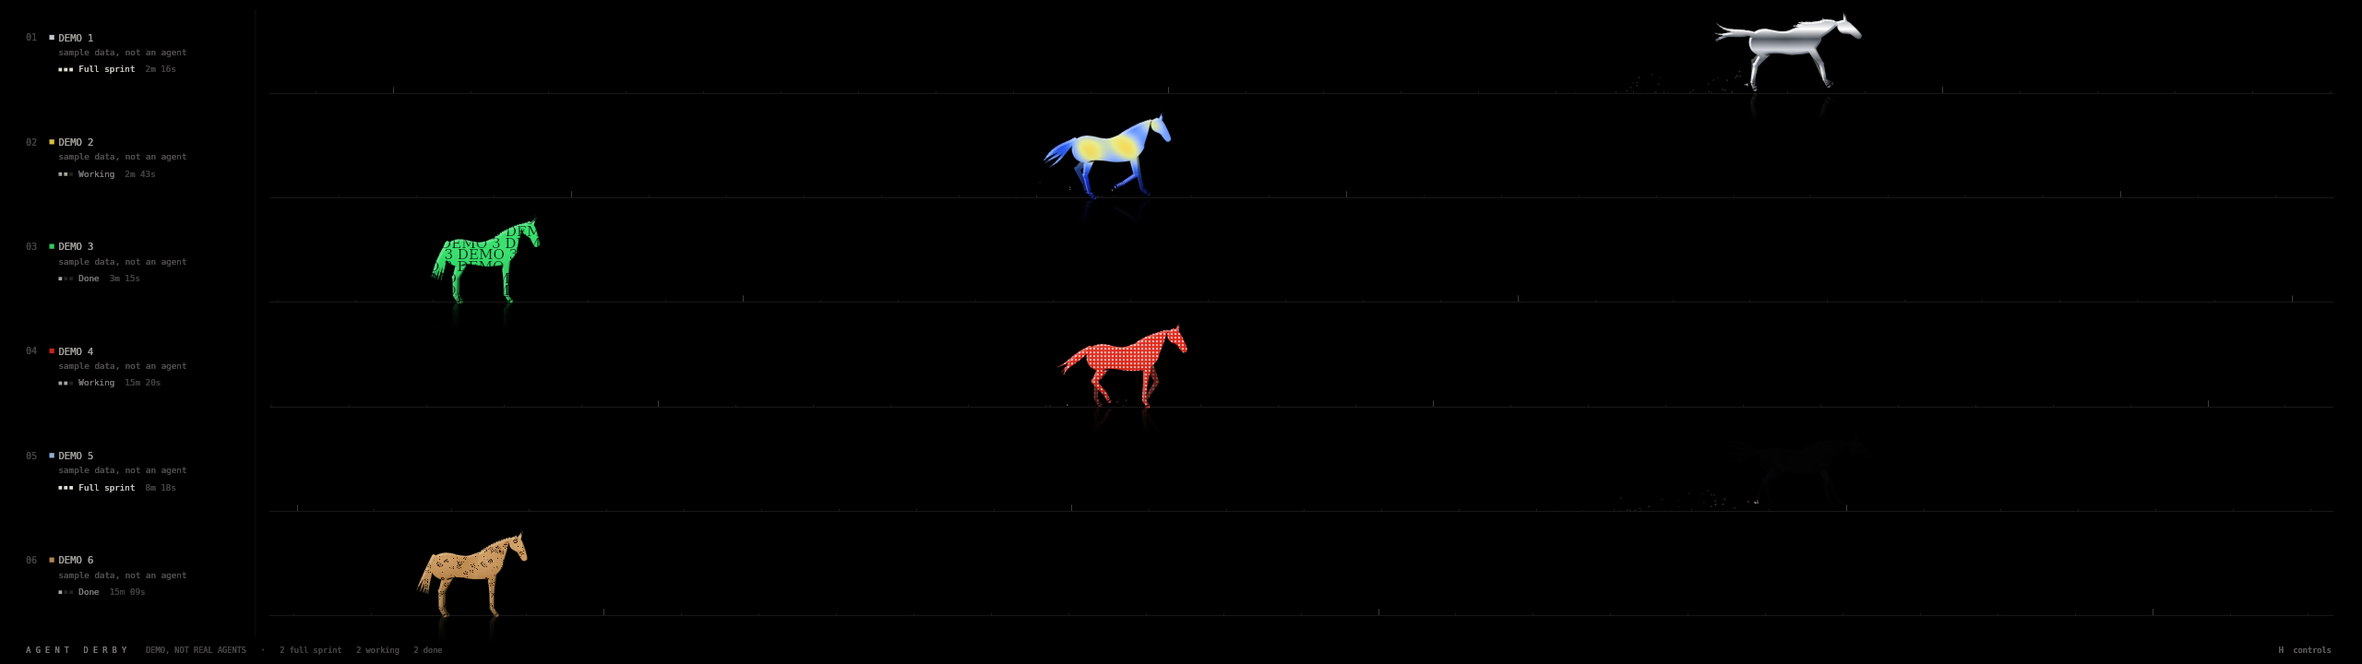
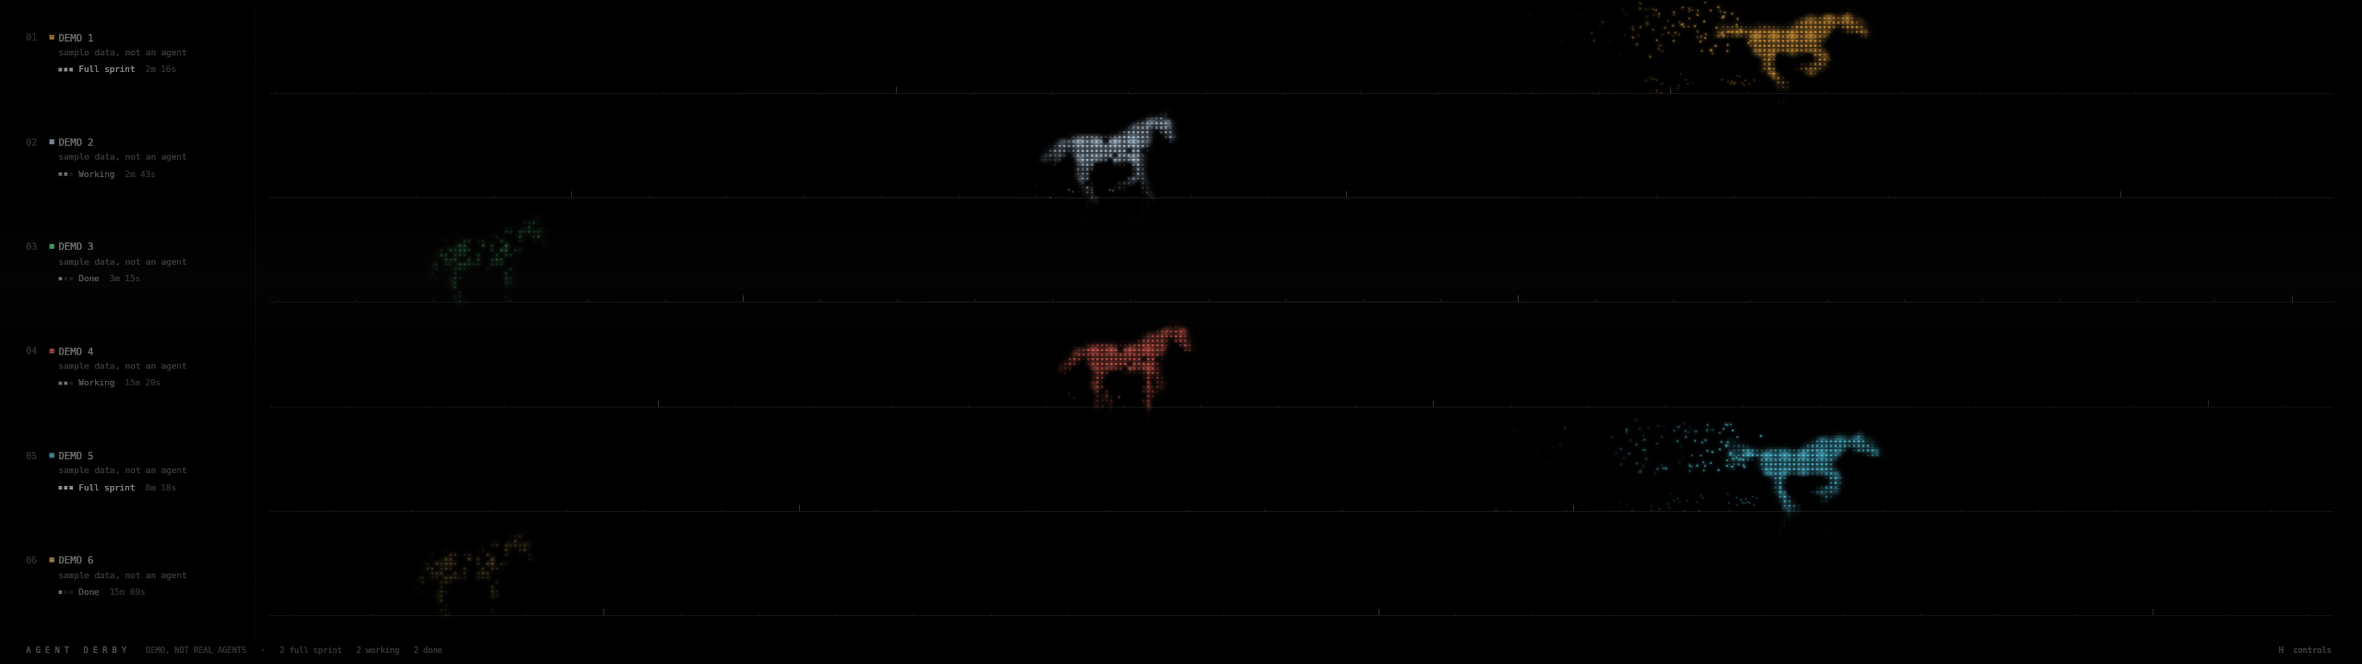
Add glowing dots, dither, ASCII and pixel looks with a CRT layer
Horses can now be drawn as LED dots (default), 1-bit dither, ASCII or
chunky pixels, chosen with page.horseStyle, ?style= or the V key. State
shows in the light: done horses thin out, working fill in, sprinting
glow and trail. A configurable CRT layer (page.crtOverlay) adds
scanlines, a vignette and a faint flicker. Gallop timing follows
Muybridge's 1878 footfall order. Slow devices drop bloom first.

diff --git a/index.html b/index.html
@@ -50,6 +50,7 @@ body.idle, body.idle canvas { cursor: none; }
     <dt>R · W · S</dt><dd>Set it to done, working or full sprint</dd>
     <dt>Shift + R · W · S</dt><dd>Set every horse</dd>
     <dt>D</dt><dd>Pause or resume the test simulation</dd>
+    <dt>V</dt><dd>Next look: dots, dither, ASCII, pixels, classic</dd>
     <dt>F</dt><dd>Fullscreen</dd>
     <dt>C</dt><dd>Show your Claude Code sessions (on claude.ai)</dd>
     <dt>H</dt><dd>Hide this panel</dd>
@@ -87,14 +88,21 @@ const isTV = () => LAYOUT === '4x3' || LAYOUT === 'tv' || (LAYOUT === 'auto' && 
 /* ---------- settings ----------
    The bridge serves the "page" section of derby.config.json at /config. Every key is optional;
    README.md lists them all. A saved copy of the page with no bridge uses these defaults. */
-const CFG = { title: 'AGENT DERBY', background: '#000000', ink: '#ECE9E2', horses: null,
+const STYLES = ['dots', 'dither', 'ascii', 'pixels', 'classic'];
+const CFG = { style: 'dots', palette: 'lanes', crt: null, title: 'AGENT DERBY', background: '#000000', ink: '#ECE9E2', horses: null,
   track: { lines: true, reflections: true, dust: true }, labels: { showTask: true, showTimer: true, rename: {} } };
 let INK = '236,233,226';
 const ink = a => `rgba(${INK},${a})`;
 const hexRGB = h => { const m = /^#?([0-9a-f]{6})$/i.exec(String(h || '')); if (!m) return null; const n = parseInt(m[1], 16); return `${n >> 16},${n >> 8 & 255},${n & 255}`; };
+if (STYLES.includes((params.get('style') || '').toLowerCase())) CFG.style = params.get('style').toLowerCase();
+if (params.get('palette')) CFG.palette = params.get('palette');
+if (params.get('crt') !== null && !isNaN(parseFloat(params.get('crt')))) CFG.crt = clamp(parseFloat(params.get('crt')), 0, 1);
 function applyConfig(c) {
   if (!c || typeof c !== 'object') return;
   if (typeof c.title === 'string') CFG.title = c.title.slice(0, 40);
+  if (!params.get('style') && STYLES.includes(c.horseStyle)) CFG.style = c.horseStyle;
+  if (!params.get('palette') && typeof c.palette === 'string') CFG.palette = c.palette;
+  if (!params.get('crt') && typeof c.crtOverlay === 'number') CFG.crt = clamp(c.crtOverlay, 0, 1);
   const th = c.theme || {};
   if (hexRGB(th.background)) CFG.background = '#' + String(th.background).replace('#', '');
   if (hexRGB(th.ink)) { CFG.ink = th.ink; INK = hexRGB(th.ink); }
@@ -165,7 +173,9 @@ addEventListener('hashchange', applyHash);
 /* ---------- gaits ---------- */
 const GAIT = {
   trot:   { f: 1.55, s: 0.42, Af: 0.32, Ab: 0.28, F: 1.25, lift: 0.36, sag: 0.06, Bf: 0.30, Bb: 0.34, H: 1.05, off: [0, 0.5, 0.5, 0] },
-  gallop: { f: 2.10, s: 0.30, Af: 0.50, Ab: 0.46, F: 1.75, lift: 0.50, sag: 0.16, Bf: 0.46, Bb: 0.50, H: 1.45, off: [0.42, 0.30, 0.10, 0] },
+  // footfall order and timing after Muybridge's 1878 gallop photographs: trailing hind, leading hind,
+  // trailing fore, leading fore, then all four off the ground with the legs gathered under the body
+  gallop: { f: 2.25, s: 0.26, Af: 0.50, Ab: 0.46, F: 1.80, lift: 0.52, sag: 0.16, Bf: 0.48, Bb: 0.50, H: 1.50, off: [0.40, 0.29, 0.09, 0] },
 };
 for (const g of Object.values(GAIT)) g.v = 1.02 * (g.Af + g.Ab) * g.f / g.s; // ground speed that keeps hooves planted
 
@@ -284,8 +294,9 @@ function geometry(h, pose, dt) {
 /* ---------- layout & shared canvases ---------- */
 let W = 0, H = 0, dpr = 1, S = 50, LW = 10, LH = 10, OX = 0, OY = 0;
 let L = {};
-const mk = () => { const c = document.createElement('canvas'); return [c, c.getContext('2d')]; };
-const [MASK, mctx] = mk(), [LAYER, lctx] = mk(), [COMP, cctx] = mk(), [REF, rctx] = mk(), [RIM, rimctx] = mk();
+const mk = (cpu) => { const c = document.createElement('canvas'); return [c, c.getContext('2d', cpu ? { willReadFrequently: true } : undefined)]; };
+const [MASK, mctx] = mk(true), [LAYER, lctx] = mk(true), [COMP, cctx] = mk(true), [REF, rctx] = mk(), [RIM, rimctx] = mk(true);
+const [SIL, silctx] = mk(true), [GRID, gctx] = mk(true), [SOUT, sctx] = mk(), [BLOOM, bctx] = mk(), [VIG, vctx] = mk(), [SCAN, scanctx] = mk();
 const [NOISE, nctx] = mk(); NOISE.width = 84; NOISE.height = 60;
 const noiseImg = nctx.createImageData(NOISE.width, NOISE.height);
 
@@ -308,10 +319,13 @@ function resize() {
   S = Math.max(8, Math.min(scaleByH, scaleByW));
   LW = Math.ceil(4.1 * S) + 8; LH = Math.ceil(3.5 * S) + 8;
   OX = 2.0 * S + 4; OY = 2.72 * S + 4;
-  for (const c of [MASK, LAYER, COMP, REF, RIM]) { c.width = LW; c.height = LH; }
+  for (const c of [MASK, LAYER, COMP, REF, RIM, SOUT, SIL]) { c.width = LW; c.height = LH; }
+  BLOOM.width = Math.ceil(LW / 4); BLOOM.height = Math.ceil(LH / 4);
   const fs = tv ? clamp(Math.min(lh * 0.15, W * 0.026), 12, 30) : clamp(lh * 0.068, 10.5 * d, 21 * d);
   L = { wide, tv, gut, footH, top, lh, labelW, fs, trackX0: gut + labelW + (wide ? gut : tv ? gut * 0.5 : 0), trackX1: W - gut };
   buildTiles();
+  buildCRT();
+  SPRITES.clear();
 }
 
 /* ---------- surface tiles ---------- */
@@ -626,21 +640,145 @@ function paintLayer(h, t, pose, far) {
 }
 function renderHorse(h, g, pose, t) {
   cctx.globalCompositeOperation = 'source-over'; cctx.clearRect(0, 0, LW, LH);
+  const sil = CFG.style !== 'classic';
   mctx.clearRect(0, 0, LW, LH); drawFar(mctx, g);
+  if (sil) { silctx.clearRect(0, 0, LW, LH); silctx.drawImage(MASK, 0, 0); }
   paintLayer(h, t, pose, true); cctx.drawImage(LAYER, 0, 0);
   mctx.clearRect(0, 0, LW, LH); drawNear(mctx, g, pose, h, t);
+  if (sil) silctx.drawImage(MASK, 0, 0);
   paintLayer(h, t, pose, false); cctx.drawImage(LAYER, 0, 0);
 }
-function drawReflection(x, y) {
+function drawReflection(x, y, src = COMP) {
   const r = rctx, depth = 0.75 * S;
   r.globalCompositeOperation = 'source-over'; r.clearRect(0, 0, LW, LH);
-  r.save(); r.translate(0, 2 * OY); r.scale(1, -1); r.drawImage(COMP, 0, 0); r.restore();
+  r.save(); r.translate(0, 2 * OY); r.scale(1, -1); r.drawImage(src, 0, 0); r.restore();
   r.globalCompositeOperation = 'destination-in';
   const g = r.createLinearGradient(0, OY, 0, OY + depth);
   g.addColorStop(0, 'rgba(0,0,0,0.26)'); g.addColorStop(0.45, 'rgba(0,0,0,0.07)'); g.addColorStop(1, 'rgba(0,0,0,0)');
   r.fillStyle = g; r.fillRect(0, OY, LW, LH - OY);
   r.fillStyle = 'rgba(0,0,0,0)';
   ctx.drawImage(REF, 0, OY, LW, LH - OY, x, y + OY, LW, LH - OY);
+}
+
+/* ---------- render styles: the horse built from light (see docs/STYLE.md) ---------- */
+const LED = ['#FFB547', '#CFE8FF', '#6BFF8E', '#FF6B5A', '#5FE3FF', '#FFD36B', '#B48CFF', '#FF8FD0'];
+const PHOSPHOR = { amber: '#FFB547', green: '#7CFF9B', white: '#EAF2FF', ice: '#BFE3FF' };
+function laneColor(h) {
+  const p = String(CFG.palette || 'lanes').toLowerCase();
+  if (PHOSPHOR[p]) return PHOSPHOR[p];
+  if (hexRGB(p)) return '#' + p.replace('#', '');
+  return LED[h.i % LED.length];
+}
+const RAMP = ' .:-=+*#%@';
+const BAYER = [0, 8, 2, 10, 12, 4, 14, 6, 3, 11, 1, 9, 15, 7, 13, 5].map(v => (v + 0.5) / 16);
+const SPRITES = new Map();
+const mix = (hex, k) => { const [r, g, b] = hexRGB(hex).split(',').map(Number); const m = v => Math.round(Math.min(255, v * k)); return `rgb(${m(r)},${m(g)},${m(b)})`; };
+function sprite(key, make) { let c = SPRITES.get(key); if (!c) { c = make(); SPRITES.set(key, c); } return c; }
+function dotSprite(col, cell) {
+  return sprite('d' + col + cell, () => {
+    const n = Math.max(4, Math.ceil(cell * 2)), [c, x] = mk(); c.width = c.height = n;
+    const r = n / 2, rgb = hexRGB(col), g = x.createRadialGradient(r, r, 0, r, r, r);
+    // a hard LED core with a soft halo, and dark gaps between neighbours
+    g.addColorStop(0, 'rgba(255,255,255,0.95)'); g.addColorStop(0.10, `rgba(${rgb},1)`);
+    g.addColorStop(0.24, `rgba(${rgb},1)`); g.addColorStop(0.30, `rgba(${rgb},0.30)`);
+    g.addColorStop(0.55, `rgba(${rgb},0.07)`); g.addColorStop(1, `rgba(${rgb},0)`);
+    x.fillStyle = g; x.fillRect(0, 0, n, n); return c;
+  });
+}
+function glyphAtlas(col, cell) {
+  return sprite('a' + col + cell, () => {
+    const [c, x] = mk(); c.width = cell * RAMP.length; c.height = cell;
+    x.font = `700 ${Math.round(cell * 1.12)}px ${MONO}`; x.textAlign = 'center'; x.textBaseline = 'middle'; x.fillStyle = col;
+    for (let i = 1; i < RAMP.length; i++) x.fillText(RAMP[i], i * cell + cell / 2, cell * 0.54);
+    return c;
+  });
+}
+let QUALITY = 0; // 0 full, 1 no bloom or reflections, 2 also coarser cells (set by the frame-time watchdog)
+function cellSize(style) {
+  const k = { dots: 8.5, dither: 15, ascii: 9.5, pixels: 7.5 }[style];
+  const min = ({ dots: 3, dither: 2, ascii: 7, pixels: 4 })[style] * (L.tv ? 1.25 : 1);
+  return Math.max(Math.round(min), Math.round(S / k * (QUALITY > 1 ? 1.5 : 1)));
+}
+function stylize(h, now) {
+  const style = CFG.style, c = cellSize(style), cols = Math.ceil(LW / c), rows = Math.ceil(LH / c);
+  if (GRID.width !== cols || GRID.height !== rows) { GRID.width = cols; GRID.height = rows; }
+  gctx.clearRect(0, 0, cols, rows); gctx.imageSmoothingEnabled = true; gctx.imageSmoothingQuality = 'medium';
+  // shape comes from the silhouette, brightness from the skin, so see-through skins still read as a full horse
+  gctx.drawImage(SIL, 0, 0, cols, rows);
+  const m = gctx.getImageData(0, 0, cols, rows).data;
+  gctx.clearRect(0, 0, cols, rows); gctx.drawImage(COMP, 0, 0, cols, rows);
+  const d = gctx.getImageData(0, 0, cols, rows).data;
+  const w = h.w, sum = w.rest + w.work + w.sprint || 1;
+  const energy = (0.34 * w.rest + 0.74 * w.work + 1.0 * w.sprint) / sum;
+  const density = (0.46 * w.rest + 0.94 * w.work + 1.0 * w.sprint) / sum;
+  const col = laneColor(h), x = sctx;
+  x.globalCompositeOperation = 'source-over'; x.globalAlpha = 1; x.clearRect(0, 0, LW, LH);
+  if (style === 'dots') x.globalCompositeOperation = 'lighter';
+  const dot = style === 'dots' ? dotSprite(col, c) : null, atlas = style === 'ascii' ? glyphAtlas(col, c) : null;
+  const shades = style === 'pixels' ? [0.34, 0.55, 0.78, 1.0].map(k => mix(col, k)) : null;
+  if (style === 'dither') x.fillStyle = col;
+  const gap = c >= 4 ? 1 : 0, ds = dot ? dot.width : 0;
+  for (let y = 0; y < rows; y++) for (let xx = 0; xx < cols; xx++) {
+    const o = (y * cols + xx) * 4, a = m[o + 3] / 255;
+    if (a < (style === 'ascii' ? 0.07 : 0.12)) continue;
+    const lum = d[o + 3] > 6 ? (0.30 * d[o] + 0.55 * d[o + 1] + 0.15 * d[o + 2]) / 255 : 0.6;
+    let v = Math.min(1, a * (0.42 + 0.58 * Math.sqrt(lum)));
+    const hsh = ((xx * 73856093) ^ (y * 19349663)) >>> 0, rr = (hsh % 1009) / 1009;
+    if (rr > density) continue;                      // done horses thin out to a sparse field
+    if (w.rest / sum > 0.5) v *= 0.82 + 0.18 * Math.sin(now * 1.7 + rr * 40); // and twinkle a little
+    const e = v * energy, px = xx * c, py = y * c;
+    if (style === 'dots') {
+      const k = 0.72 + 0.28 * v;
+      x.globalAlpha = Math.min(1, e * 1.25);
+      const sz = ds * k; x.drawImage(dot, px + c / 2 - sz / 2, py + c / 2 - sz / 2, sz, sz);
+    } else if (style === 'dither') {
+      if (e > BAYER[(y & 3) * 4 + (xx & 3)]) x.fillRect(px, py, c - gap, c - gap);
+    } else if (style === 'ascii') {
+      const gi = Math.min(RAMP.length - 1, Math.max(1, Math.round((0.15 + 0.85 * v * v) * Math.sqrt(energy) * (RAMP.length - 1))));
+      if (gi > 0) { x.globalAlpha = 0.55 + 0.45 * v; x.drawImage(atlas, gi * c, 0, c, c, px, py, c, c); }
+    } else {
+      x.fillStyle = shades[Math.min(3, Math.floor(e * 4))]; x.fillRect(px, py, c, c);
+    }
+  }
+  x.globalAlpha = 1; x.globalCompositeOperation = 'source-over';
+  return { energy, col, cell: c };
+}
+function drawStyled(h, dx, dy, info, base) {
+  if (QUALITY < 1) {
+    bctx.globalCompositeOperation = 'source-over'; bctx.clearRect(0, 0, BLOOM.width, BLOOM.height);
+    bctx.imageSmoothingEnabled = true; bctx.drawImage(SOUT, 0, 0, BLOOM.width, BLOOM.height);
+    ctx.globalCompositeOperation = 'lighter';
+    ctx.globalAlpha = base * (CFG.style === 'dots' ? 0.42 + 0.5 * info.energy : 0.22 + 0.25 * info.energy);
+    ctx.drawImage(BLOOM, dx - LW * 0.03, dy - LH * 0.03, LW * 1.06, LH * 1.06);
+    ctx.globalCompositeOperation = 'source-over';
+  }
+  ctx.globalAlpha = base; ctx.drawImage(SOUT, dx, dy);
+}
+
+/* ---------- retro CRT layer over everything ---------- */
+function buildCRT() {
+  const pitch = Math.max(2, Math.round((L.tv ? Math.max(2, H / 256) : 3 * dpr)));
+  SCAN.width = 1; SCAN.height = pitch;
+  scanctx.clearRect(0, 0, 1, pitch); scanctx.fillStyle = '#000'; scanctx.fillRect(0, 0, 1, Math.max(1, Math.round(pitch * 0.45)));
+  VIG.width = 320; VIG.height = Math.max(90, Math.round(320 * H / W));
+  const g = vctx.createRadialGradient(160, VIG.height / 2, Math.min(160, VIG.height / 2) * 0.55, 160, VIG.height / 2, Math.hypot(160, VIG.height / 2));
+  g.addColorStop(0, 'rgba(0,0,0,0)'); g.addColorStop(1, 'rgba(0,0,0,1)');
+  vctx.clearRect(0, 0, VIG.width, VIG.height); vctx.fillStyle = g; vctx.fillRect(0, 0, VIG.width, VIG.height);
+}
+function drawCRT(now) {
+  const k = CFG.crt == null ? (L.tv ? 0.25 : 0.15) : CFG.crt;
+  if (k <= 0) return;
+  ctx.save(); ctx.setTransform(1, 0, 0, 1, 0, 0); ctx.globalCompositeOperation = 'source-over';
+  ctx.globalAlpha = Math.min(1, k * 1.4); ctx.fillStyle = ctx.createPattern(SCAN, 'repeat'); ctx.fillRect(0, 0, W, H);
+  ctx.globalAlpha = Math.min(1, k * 2.2); ctx.drawImage(VIG, 0, 0, W, H);
+  // a soft band that rolls down the screen, and a faint flicker
+  const bandH = H * 0.22, by = ((now * 0.06) % 1.3 - 0.15) * H;
+  const bg = ctx.createLinearGradient(0, by, 0, by + bandH);
+  bg.addColorStop(0, 'rgba(255,255,255,0)'); bg.addColorStop(0.5, `rgba(${INK},${0.10 * k})`); bg.addColorStop(1, 'rgba(255,255,255,0)');
+  ctx.globalAlpha = 1; ctx.globalCompositeOperation = 'lighter'; ctx.fillStyle = bg; ctx.fillRect(0, by, W, bandH);
+  ctx.globalCompositeOperation = 'source-over';
+  if (!reduced) { ctx.globalAlpha = k * 0.10 * (0.5 + 0.5 * Math.sin(now * 37) * Math.sin(now * 13.1)); ctx.fillStyle = '#000'; ctx.fillRect(0, 0, W, H); }
+  ctx.restore();
 }
 
 /* ---------- labels ---------- */
@@ -668,7 +806,7 @@ function drawLabel(h, laneTop, groundY, now, drift) {
   ctx.fillStyle = hl ? ink(0.9) : ink(0.30);
   ctx.fillText(String(h.i + 1).padStart(2, '0'), x0, y);
   const nx = x0 + fs * 2.4;
-  ctx.fillStyle = SKINS[h.skin].swatch; ctx.globalAlpha = 0.9;
+  ctx.fillStyle = CFG.style === 'classic' ? SKINS[h.skin].swatch : laneColor(h); ctx.globalAlpha = 0.9;
   ctx.fillRect(nx, y - fs * 0.62, fs * 0.5, fs * 0.5); ctx.globalAlpha = 1;
   ctx.font = `500 ${fs}px ${MONO}`;
   ctx.fillStyle = hl ? ink(1) : ink(0.72);
@@ -768,10 +906,24 @@ function frame() {
     renderHorse(h, g, pose, now);
     const dx = Math.round(originX - OX), dy = Math.round(groundY - OY);
     // an open lane keeps only a faint ghost, so it never reads as a real agent
-    if (h.open) ctx.globalAlpha = 0.12;
-    if (CFG.track.reflections) drawReflection(dx, dy);
-    ctx.drawImage(COMP, dx, dy);
+    const base = h.open ? 0.12 : 1;
+    let info = null;
+    if (CFG.style !== 'classic') {
+      info = stylize(h, now);
+      ctx.globalAlpha = base;
+      if (CFG.track.reflections && QUALITY < 1) drawReflection(dx, dy, SOUT);
+      drawStyled(h, dx, dy, info, base);
+    } else {
+      ctx.globalAlpha = base;
+      if (CFG.track.reflections) drawReflection(dx, dy);
+      ctx.drawImage(COMP, dx, dy);
+    }
     ctx.globalAlpha = 1;
+    // at full sprint, styled horses shed a trail of points behind them
+    if (info && !reduced && !h.open && CFG.track.dust && h.w.sprint > 0.4 && rnd() < h.w.sprint * 0.9) {
+      for (let q = 0; q < 2; q++) h.dust.push({ trail: 1, x: originX - (0.9 + rnd() * 1.1) * S, y: groundY - (1.0 + rnd() * 1.3) * S,
+        vx: -pose.speed * S * (0.25 + rnd() * 0.45), vy: (rnd() - 0.5) * 0.3 * S, life: 0.5 + rnd() * 0.7, age: 0 });
+    }
 
     // dust from hooves leaving the ground at speed
     if (!reduced) {
@@ -787,9 +939,19 @@ function frame() {
       for (let q = h.dust.length - 1; q >= 0; q--) {
         const p = h.dust[q]; p.age += dt;
         if (p.age > p.life) { h.dust.splice(q, 1); continue; }
-        p.vy += 6 * S * dt; p.x += p.vx * dt; p.y = Math.min(groundY, p.y + p.vy * dt);
-        ctx.fillStyle = `rgba(214,206,192,${0.45 * (1 - p.age / p.life)})`;
-        const s = 1.4 * dpr; ctx.fillRect(p.x, p.y - s, s, s);
+        if (!p.trail) p.vy += 6 * S * dt; p.x += p.vx * dt; p.y = Math.min(groundY, p.y + p.vy * dt);
+        const fade = 1 - p.age / p.life;
+        if (info) {
+          const sz = info.cell * (p.trail ? 0.9 : 0.6);
+          ctx.globalAlpha = (p.trail ? 0.75 : 0.5) * fade;
+          if (CFG.style === 'dots') { const sp = dotSprite(info.col, info.cell); ctx.globalCompositeOperation = 'lighter'; ctx.drawImage(sp, p.x - sz, p.y - sz, sz * 2, sz * 2); ctx.globalCompositeOperation = 'source-over'; }
+          else if (CFG.style === 'ascii') { const at = glyphAtlas(info.col, info.cell), gi = 1 + ((p.x * 7 + p.y * 3) | 0) % 3; ctx.drawImage(at, gi * info.cell, 0, info.cell, info.cell, Math.round(p.x / info.cell) * info.cell, Math.round(p.y / info.cell) * info.cell, info.cell, info.cell); }
+          else { ctx.fillStyle = info.col; ctx.fillRect(Math.round(p.x / info.cell) * info.cell, Math.round(p.y / info.cell) * info.cell, sz, sz); }
+          ctx.globalAlpha = 1;
+        } else {
+          ctx.fillStyle = `rgba(214,206,192,${0.45 * fade})`;
+          const s = 1.4 * dpr; ctx.fillRect(p.x, p.y - s, s, s);
+        }
       }
     }
     drawLabel(h, laneTop, groundY, now, drift);
@@ -814,8 +976,18 @@ function frame() {
   ctx.textAlign = 'right'; ctx.fillStyle = ink(0.45);
   ctx.fillText(now < hintUntil ? 'H  controls' : time, W - L.gut + drift[0], fy);
   ctx.textAlign = 'left';
+  drawCRT(now);
+  watchFrame(now);
 
   requestAnimationFrame(frame);
+}
+// If frames run slow (a Raspberry Pi, a huge screen), drop the bloom and reflections, then use coarser cells.
+let slowFor = 0, fastFor = 0, lastT = 0;
+function watchFrame(now) {
+  const ft = lastT ? now - lastT : 0.016; lastT = now;
+  if (ft > 0.026) { slowFor += ft; fastFor = 0; } else { fastFor += ft; slowFor = Math.max(0, slowFor - ft * 0.5); }
+  if (slowFor > 2 && QUALITY < 2) { QUALITY++; slowFor = 0; }
+  if (fastFor > 30 && QUALITY > 0) { QUALITY--; fastFor = 0; }
 }
 
 /* ---------- input ---------- */
@@ -842,6 +1014,7 @@ addEventListener('keydown', e => {
   }
   if (k === 'd') { demo = !demo; if (demo) horses.forEach(h => { h.hold = 0; }); return; }
   if (k === 'f') { toggleFull(); return; }
+  if (k === 'v') { CFG.style = STYLES[(STYLES.indexOf(CFG.style) + 1) % STYLES.length]; return; }
   if (k === 'c') { cloudAsk(); return; }
   if (k === 'h' || k === '?') { helpEl.hidden = !helpEl.hidden; return; }
   if (k === 'escape') helpEl.hidden = true;

diff --git a/README.md b/README.md
@@ -100,10 +100,13 @@ Everything lives in `derby.config.json`. Every key is optional.
 | `watch` | `[]` | Processes to show as horses: `agent` (id), `name`, `task`, `match` (part of the command line). |
 | `testflight` | off | Read-only TestFlight build status, see above. |
 | `page.layout` | `"auto"` | `"auto"`, `"32x9"` or `"4x3"`. A `?layout=` in the address wins. |
+| `page.horseStyle` | `"dots"` | `dots`, `dither`, `ascii`, `pixels` or `classic`. See Looks below. |
+| `page.palette` | `"lanes"` | `lanes` (a color per lane), `amber`, `green`, `white`, `ice`, or one 6-digit hex color. |
+| `page.crtOverlay` | `0.15` | CRT layer strength, 0 (off) to 1. Defaults to 0.25 on the 4:3 layout. |
 | `page.title` | `"AGENT DERBY"` | Text in the footer. |
 | `page.theme.background` | `"#000000"` | Background color (6-digit hex). |
 | `page.theme.ink` | `"#ECE9E2"` | Text and track color (6-digit hex). |
-| `page.horses` | all 8 | Horse styles, lane by lane, repeating if shorter: `chrome`, `thermal`, `type`, `dots`, `glass`, `leopard`, `cobalt`, `glitter`. |
+| `page.horses` | all 8 | Textures for the `classic` look, lane by lane, repeating if shorter: `chrome`, `thermal`, `type`, `dots`, `glass`, `leopard`, `cobalt`, `glitter`. |
 | `page.track.lines` | `true` | Draw the track lines and distance posts. |
 | `page.track.reflections` | `true` | Draw the horses' reflections. |
 | `page.track.dust` | `true` | Kick up dust at a gallop. |
@@ -113,9 +116,27 @@ Everything lives in `derby.config.json`. Every key is optional.
 
 The page reads the `page` section from the bridge at `/config` when it loads, so reload it after changing settings. The bridge itself needs a restart for the other keys.
 
+## Looks
+
+The horses are drawn in one of five looks. Press V on the page to flip through them, or pick one in settings:
+
+- **dots** (the default): glowing LED dots with a soft bloom.
+- **dither**: 1-bit ordered dither, like an old Mac screen.
+- **ascii**: the horse built from text characters, brighter parts in denser characters.
+- **pixels**: chunky pixels in four shades.
+- **classic**: the original textured horses.
+
+The state shows in the light itself. A done horse thins out to a few dim, twinkling dots. A working horse fills in. A horse at full sprint glows brightest and leaves a trail of points behind it. A soft CRT layer (scanlines, a vignette, a slow rolling band and a faint flicker) sits over everything at about 15%, a bit heavier on the 4:3 layout.
+
+The gallop follows the footfall order Eadweard Muybridge recorded in his 1878 photographs *The Horse in Motion* (public domain): hind, hind, fore, fore, then all four feet off the ground with the legs gathered under the body. The horse is drawn by code from that timing; no photographs or other artwork are copied.
+
+If the page runs slowly (a Raspberry Pi, a very large screen), it drops the bloom and reflections first, then uses coarser cells, and comes back up when frames are fast again.
+
+![The five looks](docs/looks.png)
+
 ## Address options
 
-`?layout=4x3|wide|auto`, `?lanes=1-8` (minimum lanes), `?demo=0` (freeze the demo), `?live=1` (poll a bridge when served over https).
+`?layout=4x3|wide|auto`, `?style=dots|dither|ascii|pixels|classic`, `?palette=amber`, `?crt=0.3`, `?lanes=1-8` (minimum lanes), `?demo=0` (freeze the demo), `?live=1` (poll a bridge when served over https).
 
 ## Privacy
 

diff --git a/docs/STYLE.md b/docs/STYLE.md
@@ -1,0 +1,30 @@
+# Agent Derby: style brief
+
+Written from a mood board of digital and pixel horses. Nothing here copies a reference image: the board only set the direction.
+
+## Idea
+The horse is built from light, not drawn. Every horse is a field of points (dots, dither cells, glyphs or pixels) sampled from a moving silhouette, so it reads like a signal on a screen rather than an illustration.
+
+## Looks
+- **Glowing dots (default):** an LED dot-matrix. Round points on a fixed grid, a hot core and a soft halo, bloom where points crowd together. Dot size follows the body's light, so the shape has volume.
+- **Dither:** a 1-bit ordered (Bayer 4x4) screen. Square cells, hard edges, no blur. Tone comes only from the pattern.
+- **ASCII:** a glyph density ramp ` .:-=+*#%@` in a bold monospace, one glyph per cell. Dense glyphs on the lit side, sparse ones on the shadow side.
+- **Pixels:** chunky square pixels with four brightness steps, like an early game sprite.
+- **Classic:** the original painted skins, kept as an option.
+
+## Color
+One color per lane on black, picked to stay apart at a glance: amber, ice, green, coral, cyan, gold, violet, pink. The palette can be switched to a single phosphor color (amber, green, white, ice) or any hex.
+
+## State
+- **Done:** sparse, dim points that slowly twinkle. The horse stands.
+- **Working:** the field fills in at full density. Trot.
+- **Full sprint:** brightest, with extra bloom and a trail of points peeling off behind. Gallop.
+
+## Motion
+The gallop follows the footfall order Eadweard Muybridge photographed in 1878 ("The Horse in Motion"): hind, hind, fore, fore, then a moment with all four hooves off the ground and the legs gathered under the body.
+
+## Screen texture
+A retro CRT layer over everything at about 15% (heavier on 4:3 tube screens): scanlines, a soft vignette, a faint rolling band and a slight flicker. It should be felt more than seen.
+
+## Don'ts
+No drop shadows, no gradients on type, no copied artwork. Demo horses are always labeled DEMO.
